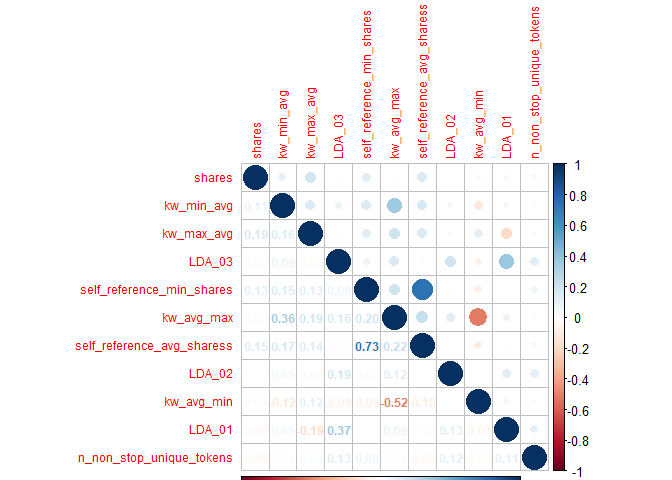
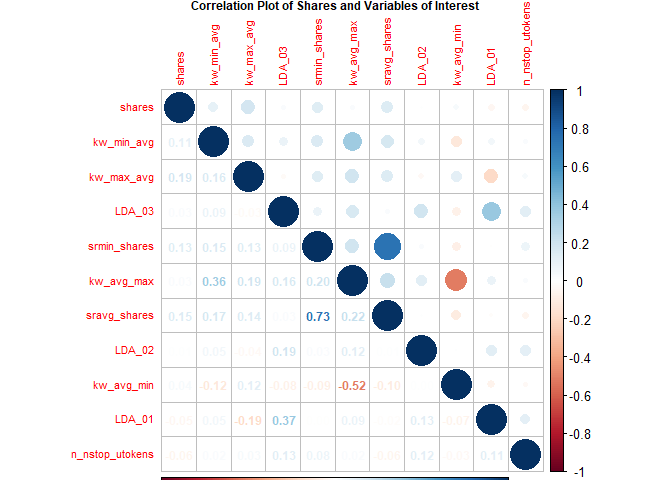
added title to corrplot

Changed region(s): [[0.0938, 0.0, 0.875, 1.0], [0.7188, 0.0938, 0.75, 0.1875]]

diff --git a/data_channel_is_entertainment.md b/data_channel_is_entertainment.md
@@ -219,24 +219,35 @@ g + geom_histogram(binwidth=12000,color = "brown", fill = "green",
 
 Fernandes et al highlight several variables in their random forest model
 (Fernandes et al., 2015). The following variables from their top 11 were
-included in the following correlation plot:
-`shares`,`kw_min_avg`,`kw_max_avg`,`LDA_03`,`self_reference_min_shares`,`kw_avg_max`,`self_reference_avg_sharess`,`LDA_02`,`kw_avg_min`,`LDA_01`,`n_non_stop_unique_tokens`.  
+included in the following correlation plot with variables in () being
+renamed for this plot:
+`shares`,`kw_min_avg`,`kw_max_avg`,`LDA_03`,`self_reference_min_shares`(`srmin_shares`),`kw_avg_max`,`self_reference_avg_sharess`(`sravg_shares`),`LDA_02`,`kw_avg_min`,`LDA_01`,`n_non_stop_unique_tokens`(`n_nstop_utokens`).  
 The plot shows correlation with the response variable `shares` and the
 other various combinations. Larger circles indicate stronger positive
 (blue) or negative (red) correlation with correlation values on the
 lower portion of the plot.
 
 ``` r
-Correlation<-cor(select(channelData, shares, kw_min_avg,
-        kw_max_avg, LDA_03, self_reference_min_shares,
-        kw_avg_max, self_reference_avg_sharess, LDA_02,
-        kw_avg_min, LDA_01, n_non_stop_unique_tokens),
+##Reduce variable name length for later plotting
+## Otherwise var names overwrite Title no matter
+##  how many other size tweaks were made
+corrData<-channelData %>% 
+  mutate(sravg_shares=self_reference_avg_sharess,
+         srmin_shares=self_reference_min_shares,
+         n_nstop_utokens=n_non_stop_unique_tokens)
+
+Correlation<-cor(select(corrData, shares, kw_min_avg,
+        kw_max_avg, LDA_03, srmin_shares,
+        kw_avg_max, sravg_shares, LDA_02,
+        kw_avg_min, LDA_01, n_nstop_utokens),
         method = "spearman")
 
-
-corrplot(Correlation,type="upper",tl.pos="lt", tl.cex = .75)
+corrplot(Correlation,type="upper",tl.pos="lt", tl.cex = .70)
 corrplot(Correlation,type="lower",method="number",
-         add=TRUE,diag=FALSE,tl.pos="n",tl.cex = .75,number.cex = .75)
+         add=TRUE,diag=FALSE,tl.pos="n",tl.cex = .70,number.cex = .75,
+         title = 
+           "Correlation Plot of Shares and Variables of Interest",
+         mar=c(0,0,.50,0),cex.main = .75)
 ```
 
 ![](images/entertainment/corrplot-1.png)<!-- -->
@@ -244,11 +255,15 @@ corrplot(Correlation,type="lower",method="number",
 ``` r
 ###this one is in progress, hopefully a scatter plot
 g<-ggplot(data = channelData,
-          aes(x= avg_negative_polarity,y=shares))
+          aes(x= kw_max_avg,y=shares))
 g + geom_point(aes(color=as.factor(is_weekend))) +
-  scale_y_continuous(trans = "pseudo_log")
+  geom_smooth(method = lm) +
+  scale_y_continuous(labels = scales::comma) +
+  scale_x_continuous(labels = scales::comma)
   
-  scale_y_continuous(labels = scales::comma) 
+#  scale_y_continuous(labels = scales::comma) 
+
+#  scale_y_continuous(trans = "pseudo_log")
 ```
 
 ``` r

diff --git a/data_channel_is_lifestyle.md b/data_channel_is_lifestyle.md
@@ -219,24 +219,35 @@ g + geom_histogram(binwidth=12000,color = "brown", fill = "green",
 
 Fernandes et al highlight several variables in their random forest model
 (Fernandes et al., 2015). The following variables from their top 11 were
-included in the following correlation plot:
-`shares`,`kw_min_avg`,`kw_max_avg`,`LDA_03`,`self_reference_min_shares`,`kw_avg_max`,`self_reference_avg_sharess`,`LDA_02`,`kw_avg_min`,`LDA_01`,`n_non_stop_unique_tokens`.  
+included in the following correlation plot with variables in () being
+renamed for this plot:
+`shares`,`kw_min_avg`,`kw_max_avg`,`LDA_03`,`self_reference_min_shares`(`srmin_shares`),`kw_avg_max`,`self_reference_avg_sharess`(`sravg_shares`),`LDA_02`,`kw_avg_min`,`LDA_01`,`n_non_stop_unique_tokens`(`n_nstop_utokens`).  
 The plot shows correlation with the response variable `shares` and the
 other various combinations. Larger circles indicate stronger positive
 (blue) or negative (red) correlation with correlation values on the
 lower portion of the plot.
 
 ``` r
-Correlation<-cor(select(channelData, shares, kw_min_avg,
-        kw_max_avg, LDA_03, self_reference_min_shares,
-        kw_avg_max, self_reference_avg_sharess, LDA_02,
-        kw_avg_min, LDA_01, n_non_stop_unique_tokens),
+##Reduce variable name length for later plotting
+## Otherwise var names overwrite Title no matter
+##  how many other size tweaks were made
+corrData<-channelData %>% 
+  mutate(sravg_shares=self_reference_avg_sharess,
+         srmin_shares=self_reference_min_shares,
+         n_nstop_utokens=n_non_stop_unique_tokens)
+
+Correlation<-cor(select(corrData, shares, kw_min_avg,
+        kw_max_avg, LDA_03, srmin_shares,
+        kw_avg_max, sravg_shares, LDA_02,
+        kw_avg_min, LDA_01, n_nstop_utokens),
         method = "spearman")
 
-
-corrplot(Correlation,type="upper",tl.pos="lt", tl.cex = .75)
+corrplot(Correlation,type="upper",tl.pos="lt", tl.cex = .70)
 corrplot(Correlation,type="lower",method="number",
-         add=TRUE,diag=FALSE,tl.pos="n",tl.cex = .75,number.cex = .75)
+         add=TRUE,diag=FALSE,tl.pos="n",tl.cex = .70,number.cex = .75,
+         title = 
+           "Correlation Plot of Shares and Variables of Interest",
+         mar=c(0,0,.50,0),cex.main = .75)
 ```
 
 ![](images/lifestyle/corrplot-1.png)<!-- -->
@@ -244,11 +255,15 @@ corrplot(Correlation,type="lower",method="number",
 ``` r
 ###this one is in progress, hopefully a scatter plot
 g<-ggplot(data = channelData,
-          aes(x= avg_negative_polarity,y=shares))
+          aes(x= kw_max_avg,y=shares))
 g + geom_point(aes(color=as.factor(is_weekend))) +
-  scale_y_continuous(trans = "pseudo_log")
+  geom_smooth(method = lm) +
+  scale_y_continuous(labels = scales::comma) +
+  scale_x_continuous(labels = scales::comma)
   
-  scale_y_continuous(labels = scales::comma) 
+#  scale_y_continuous(labels = scales::comma) 
+
+#  scale_y_continuous(trans = "pseudo_log")
 ```
 
 ``` r

diff --git a/data_channel_is_socmed.md b/data_channel_is_socmed.md
@@ -219,24 +219,35 @@ g + geom_histogram(binwidth=12000,color = "brown", fill = "green",
 
 Fernandes et al highlight several variables in their random forest model
 (Fernandes et al., 2015). The following variables from their top 11 were
-included in the following correlation plot:
-`shares`,`kw_min_avg`,`kw_max_avg`,`LDA_03`,`self_reference_min_shares`,`kw_avg_max`,`self_reference_avg_sharess`,`LDA_02`,`kw_avg_min`,`LDA_01`,`n_non_stop_unique_tokens`.  
+included in the following correlation plot with variables in () being
+renamed for this plot:
+`shares`,`kw_min_avg`,`kw_max_avg`,`LDA_03`,`self_reference_min_shares`(`srmin_shares`),`kw_avg_max`,`self_reference_avg_sharess`(`sravg_shares`),`LDA_02`,`kw_avg_min`,`LDA_01`,`n_non_stop_unique_tokens`(`n_nstop_utokens`).  
 The plot shows correlation with the response variable `shares` and the
 other various combinations. Larger circles indicate stronger positive
 (blue) or negative (red) correlation with correlation values on the
 lower portion of the plot.
 
 ``` r
-Correlation<-cor(select(channelData, shares, kw_min_avg,
-        kw_max_avg, LDA_03, self_reference_min_shares,
-        kw_avg_max, self_reference_avg_sharess, LDA_02,
-        kw_avg_min, LDA_01, n_non_stop_unique_tokens),
+##Reduce variable name length for later plotting
+## Otherwise var names overwrite Title no matter
+##  how many other size tweaks were made
+corrData<-channelData %>% 
+  mutate(sravg_shares=self_reference_avg_sharess,
+         srmin_shares=self_reference_min_shares,
+         n_nstop_utokens=n_non_stop_unique_tokens)
+
+Correlation<-cor(select(corrData, shares, kw_min_avg,
+        kw_max_avg, LDA_03, srmin_shares,
+        kw_avg_max, sravg_shares, LDA_02,
+        kw_avg_min, LDA_01, n_nstop_utokens),
         method = "spearman")
 
-
-corrplot(Correlation,type="upper",tl.pos="lt", tl.cex = .75)
+corrplot(Correlation,type="upper",tl.pos="lt", tl.cex = .70)
 corrplot(Correlation,type="lower",method="number",
-         add=TRUE,diag=FALSE,tl.pos="n",tl.cex = .75,number.cex = .75)
+         add=TRUE,diag=FALSE,tl.pos="n",tl.cex = .70,number.cex = .75,
+         title = 
+           "Correlation Plot of Shares and Variables of Interest",
+         mar=c(0,0,.50,0),cex.main = .75)
 ```
 
 ![](images/socmed/corrplot-1.png)<!-- -->
@@ -244,11 +255,15 @@ corrplot(Correlation,type="lower",method="number",
 ``` r
 ###this one is in progress, hopefully a scatter plot
 g<-ggplot(data = channelData,
-          aes(x= avg_negative_polarity,y=shares))
+          aes(x= kw_max_avg,y=shares))
 g + geom_point(aes(color=as.factor(is_weekend))) +
-  scale_y_continuous(trans = "pseudo_log")
+  geom_smooth(method = lm) +
+  scale_y_continuous(labels = scales::comma) +
+  scale_x_continuous(labels = scales::comma)
   
-  scale_y_continuous(labels = scales::comma) 
+#  scale_y_continuous(labels = scales::comma) 
+
+#  scale_y_continuous(trans = "pseudo_log")
 ```
 
 ``` r

diff --git a/data_channel_is_world.md b/data_channel_is_world.md
@@ -219,24 +219,35 @@ g + geom_histogram(binwidth=12000,color = "brown", fill = "green",
 
 Fernandes et al highlight several variables in their random forest model
 (Fernandes et al., 2015). The following variables from their top 11 were
-included in the following correlation plot:
-`shares`,`kw_min_avg`,`kw_max_avg`,`LDA_03`,`self_reference_min_shares`,`kw_avg_max`,`self_reference_avg_sharess`,`LDA_02`,`kw_avg_min`,`LDA_01`,`n_non_stop_unique_tokens`.  
+included in the following correlation plot with variables in () being
+renamed for this plot:
+`shares`,`kw_min_avg`,`kw_max_avg`,`LDA_03`,`self_reference_min_shares`(`srmin_shares`),`kw_avg_max`,`self_reference_avg_sharess`(`sravg_shares`),`LDA_02`,`kw_avg_min`,`LDA_01`,`n_non_stop_unique_tokens`(`n_nstop_utokens`).  
 The plot shows correlation with the response variable `shares` and the
 other various combinations. Larger circles indicate stronger positive
 (blue) or negative (red) correlation with correlation values on the
 lower portion of the plot.
 
 ``` r
-Correlation<-cor(select(channelData, shares, kw_min_avg,
-        kw_max_avg, LDA_03, self_reference_min_shares,
-        kw_avg_max, self_reference_avg_sharess, LDA_02,
-        kw_avg_min, LDA_01, n_non_stop_unique_tokens),
+##Reduce variable name length for later plotting
+## Otherwise var names overwrite Title no matter
+##  how many other size tweaks were made
+corrData<-channelData %>% 
+  mutate(sravg_shares=self_reference_avg_sharess,
+         srmin_shares=self_reference_min_shares,
+         n_nstop_utokens=n_non_stop_unique_tokens)
+
+Correlation<-cor(select(corrData, shares, kw_min_avg,
+        kw_max_avg, LDA_03, srmin_shares,
+        kw_avg_max, sravg_shares, LDA_02,
+        kw_avg_min, LDA_01, n_nstop_utokens),
         method = "spearman")
 
-
-corrplot(Correlation,type="upper",tl.pos="lt", tl.cex = .75)
+corrplot(Correlation,type="upper",tl.pos="lt", tl.cex = .70)
 corrplot(Correlation,type="lower",method="number",
-         add=TRUE,diag=FALSE,tl.pos="n",tl.cex = .75,number.cex = .75)
+         add=TRUE,diag=FALSE,tl.pos="n",tl.cex = .70,number.cex = .75,
+         title = 
+           "Correlation Plot of Shares and Variables of Interest",
+         mar=c(0,0,.50,0),cex.main = .75)
 ```
 
 ![](images/world/corrplot-1.png)<!-- -->
@@ -244,11 +255,15 @@ corrplot(Correlation,type="lower",method="number",
 ``` r
 ###this one is in progress, hopefully a scatter plot
 g<-ggplot(data = channelData,
-          aes(x= avg_negative_polarity,y=shares))
+          aes(x= kw_max_avg,y=shares))
 g + geom_point(aes(color=as.factor(is_weekend))) +
-  scale_y_continuous(trans = "pseudo_log")
+  geom_smooth(method = lm) +
+  scale_y_continuous(labels = scales::comma) +
+  scale_x_continuous(labels = scales::comma)
   
-  scale_y_continuous(labels = scales::comma) 
+#  scale_y_continuous(labels = scales::comma) 
+
+#  scale_y_continuous(trans = "pseudo_log")
 ```
 
 ``` r

diff --git a/data_channel_is_tech.md b/data_channel_is_tech.md
@@ -220,24 +220,35 @@ g + geom_histogram(binwidth=12000,color = "brown", fill = "green",
 
 Fernandes et al highlight several variables in their random forest model
 (Fernandes et al., 2015). The following variables from their top 11 were
-included in the following correlation plot:
-`shares`,`kw_min_avg`,`kw_max_avg`,`LDA_03`,`self_reference_min_shares`,`kw_avg_max`,`self_reference_avg_sharess`,`LDA_02`,`kw_avg_min`,`LDA_01`,`n_non_stop_unique_tokens`.  
+included in the following correlation plot with variables in () being
+renamed for this plot:
+`shares`,`kw_min_avg`,`kw_max_avg`,`LDA_03`,`self_reference_min_shares`(`srmin_shares`),`kw_avg_max`,`self_reference_avg_sharess`(`sravg_shares`),`LDA_02`,`kw_avg_min`,`LDA_01`,`n_non_stop_unique_tokens`(`n_nstop_utokens`).  
 The plot shows correlation with the response variable `shares` and the
 other various combinations. Larger circles indicate stronger positive
 (blue) or negative (red) correlation with correlation values on the
 lower portion of the plot.
 
 ``` r
-Correlation<-cor(select(channelData, shares, kw_min_avg,
-        kw_max_avg, LDA_03, self_reference_min_shares,
-        kw_avg_max, self_reference_avg_sharess, LDA_02,
-        kw_avg_min, LDA_01, n_non_stop_unique_tokens),
+##Reduce variable name length for later plotting
+## Otherwise var names overwrite Title no matter
+##  how many other size tweaks were made
+corrData<-channelData %>% 
+  mutate(sravg_shares=self_reference_avg_sharess,
+         srmin_shares=self_reference_min_shares,
+         n_nstop_utokens=n_non_stop_unique_tokens)
+
+Correlation<-cor(select(corrData, shares, kw_min_avg,
+        kw_max_avg, LDA_03, srmin_shares,
+        kw_avg_max, sravg_shares, LDA_02,
+        kw_avg_min, LDA_01, n_nstop_utokens),
         method = "spearman")
 
-
-corrplot(Correlation,type="upper",tl.pos="lt", tl.cex = .75)
+corrplot(Correlation,type="upper",tl.pos="lt", tl.cex = .70)
 corrplot(Correlation,type="lower",method="number",
-         add=TRUE,diag=FALSE,tl.pos="n",tl.cex = .75,number.cex = .75)
+         add=TRUE,diag=FALSE,tl.pos="n",tl.cex = .70,number.cex = .75,
+         title = 
+           "Correlation Plot of Shares and Variables of Interest",
+         mar=c(0,0,.50,0),cex.main = .75)
 ```
 
 ![](images/tech/corrplot-1.png)<!-- -->
@@ -245,11 +256,15 @@ corrplot(Correlation,type="lower",method="number",
 ``` r
 ###this one is in progress, hopefully a scatter plot
 g<-ggplot(data = channelData,
-          aes(x= avg_negative_polarity,y=shares))
+          aes(x= kw_max_avg,y=shares))
 g + geom_point(aes(color=as.factor(is_weekend))) +
-  scale_y_continuous(trans = "pseudo_log")
+  geom_smooth(method = lm) +
+  scale_y_continuous(labels = scales::comma) +
+  scale_x_continuous(labels = scales::comma)
   
-  scale_y_continuous(labels = scales::comma) 
+#  scale_y_continuous(labels = scales::comma) 
+
+#  scale_y_continuous(trans = "pseudo_log")
 ```
 
 ``` r

diff --git a/data_channel_is_bus.md b/data_channel_is_bus.md
@@ -219,24 +219,35 @@ g + geom_histogram(binwidth=12000,color = "brown", fill = "green",
 
 Fernandes et al highlight several variables in their random forest model
 (Fernandes et al., 2015). The following variables from their top 11 were
-included in the following correlation plot:
-`shares`,`kw_min_avg`,`kw_max_avg`,`LDA_03`,`self_reference_min_shares`,`kw_avg_max`,`self_reference_avg_sharess`,`LDA_02`,`kw_avg_min`,`LDA_01`,`n_non_stop_unique_tokens`.  
+included in the following correlation plot with variables in () being
+renamed for this plot:
+`shares`,`kw_min_avg`,`kw_max_avg`,`LDA_03`,`self_reference_min_shares`(`srmin_shares`),`kw_avg_max`,`self_reference_avg_sharess`(`sravg_shares`),`LDA_02`,`kw_avg_min`,`LDA_01`,`n_non_stop_unique_tokens`(`n_nstop_utokens`).  
 The plot shows correlation with the response variable `shares` and the
 other various combinations. Larger circles indicate stronger positive
 (blue) or negative (red) correlation with correlation values on the
 lower portion of the plot.
 
 ``` r
-Correlation<-cor(select(channelData, shares, kw_min_avg,
-        kw_max_avg, LDA_03, self_reference_min_shares,
-        kw_avg_max, self_reference_avg_sharess, LDA_02,
-        kw_avg_min, LDA_01, n_non_stop_unique_tokens),
+##Reduce variable name length for later plotting
+## Otherwise var names overwrite Title no matter
+##  how many other size tweaks were made
+corrData<-channelData %>% 
+  mutate(sravg_shares=self_reference_avg_sharess,
+         srmin_shares=self_reference_min_shares,
+         n_nstop_utokens=n_non_stop_unique_tokens)
+
+Correlation<-cor(select(corrData, shares, kw_min_avg,
+        kw_max_avg, LDA_03, srmin_shares,
+        kw_avg_max, sravg_shares, LDA_02,
+        kw_avg_min, LDA_01, n_nstop_utokens),
         method = "spearman")
 
-
-corrplot(Correlation,type="upper",tl.pos="lt", tl.cex = .75)
+corrplot(Correlation,type="upper",tl.pos="lt", tl.cex = .70)
 corrplot(Correlation,type="lower",method="number",
-         add=TRUE,diag=FALSE,tl.pos="n",tl.cex = .75,number.cex = .75)
+         add=TRUE,diag=FALSE,tl.pos="n",tl.cex = .70,number.cex = .75,
+         title = 
+           "Correlation Plot of Shares and Variables of Interest",
+         mar=c(0,0,.50,0),cex.main = .75)
 ```
 
 ![](images/bus/corrplot-1.png)<!-- -->
@@ -244,11 +255,15 @@ corrplot(Correlation,type="lower",method="number",
 ``` r
 ###this one is in progress, hopefully a scatter plot
 g<-ggplot(data = channelData,
-          aes(x= avg_negative_polarity,y=shares))
+          aes(x= kw_max_avg,y=shares))
 g + geom_point(aes(color=as.factor(is_weekend))) +
-  scale_y_continuous(trans = "pseudo_log")
+  geom_smooth(method = lm) +
+  scale_y_continuous(labels = scales::comma) +
+  scale_x_continuous(labels = scales::comma)
   
-  scale_y_continuous(labels = scales::comma) 
+#  scale_y_continuous(labels = scales::comma) 
+
+#  scale_y_continuous(trans = "pseudo_log")
 ```
 
 ``` r
